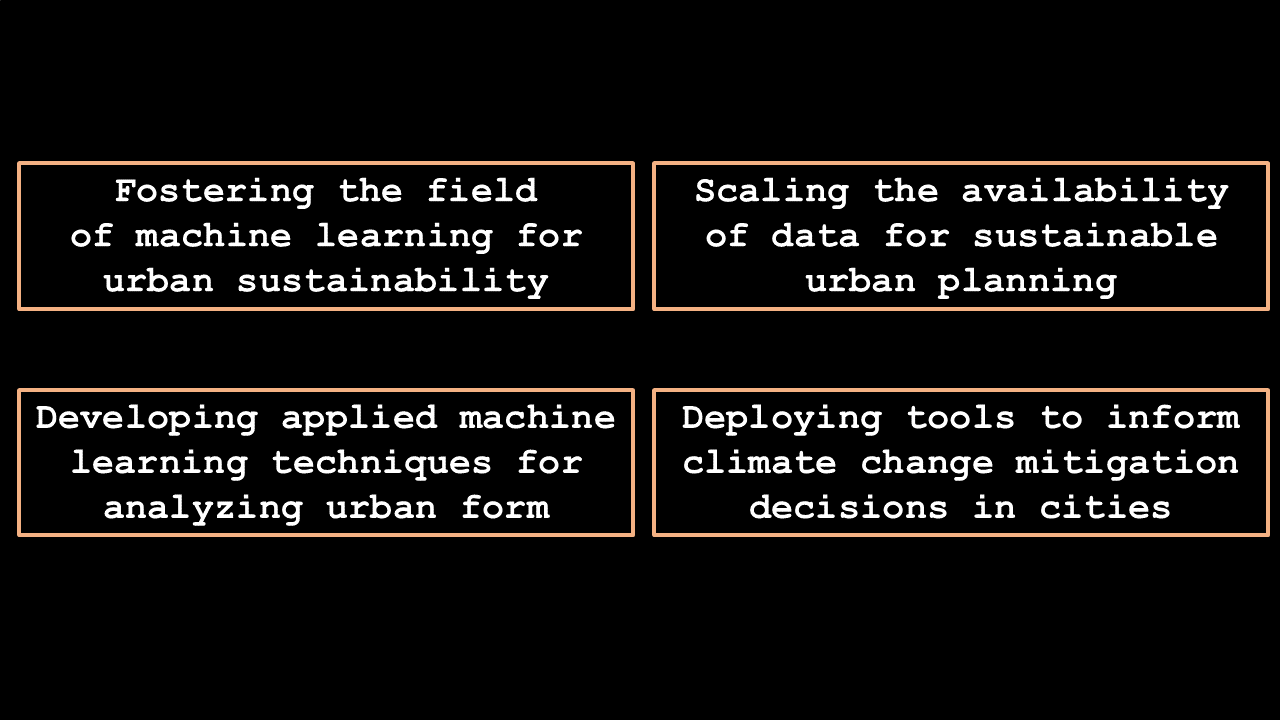
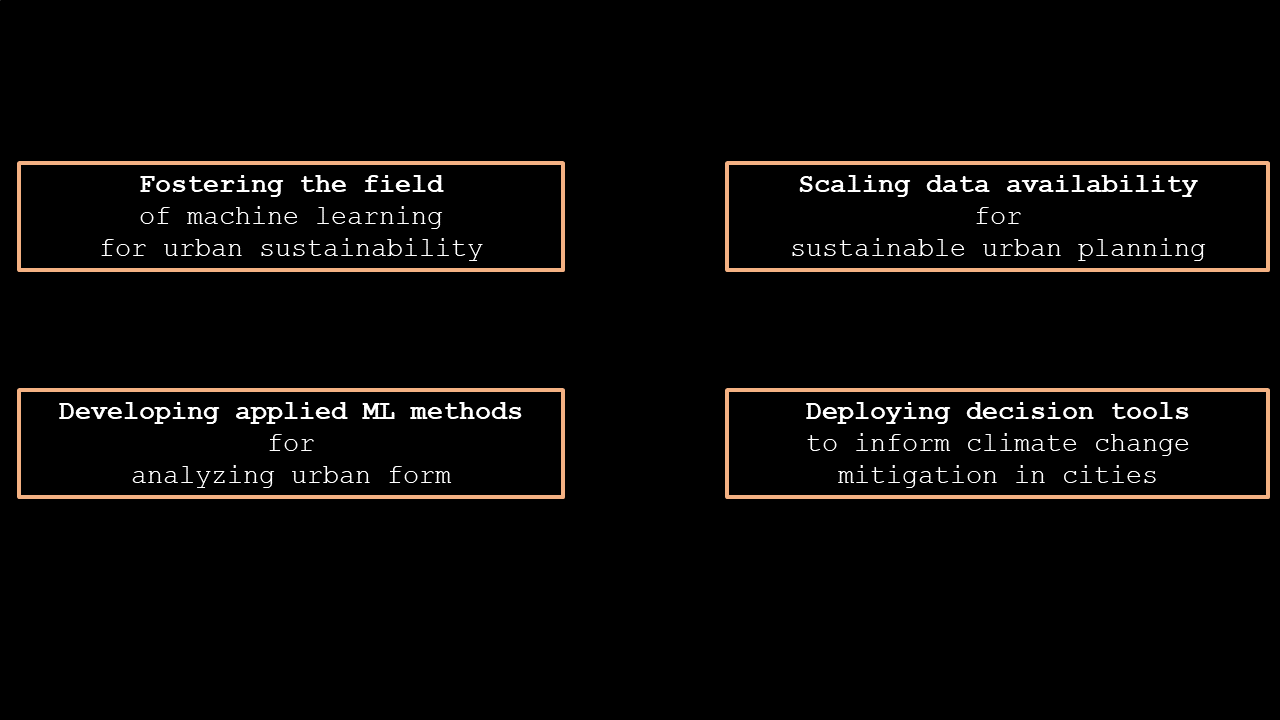
updated boxes

Changed region(s): [[0.0, 0.5194, 1.0, 0.7639], [0.4375, 0.2139, 1.0, 0.4583], [0.0, 0.2444, 0.5312, 0.4583]]

diff --git a/research.md b/research.md
@@ -15,17 +15,17 @@ My research is mainly structured along 4 axes, detailed below.
 There are high expectactions about the potential role of machine learning for sustainable cities, but the field is still nascent. With colleagues, I have written several reviews on the state of the research on machine learning applications relevant to mitigating climate change in cities. A couple of others are in the making. I am also involved in education content creation at as Content Committee Chair at Climate Change AI, which includes for example a wiki, a course and tutorials. 
 
 
-## Scaling the availability of data for sustainable urban planning 
+## Scaling data availability for sustainable urban planning 
 
 Even though more and more data on cities become available, there are still large data gaps that prevent potentially impactful research applications, for example comparative analyses of cities' infrastructure. We have an ungoing project that aims to yield an inventory of existing open government data on buildings globally. I have developped a method to predict building heights from urban form, which we are currently extending to other building attributes including building ages and types, and other metrics relevant to urban studies. We are currently working on a project aiming to create EU-level database that gathers existing open data on buildings and fills the data gaps with machine learning.
 
 
-## Developing applied machine learning techniques for analyzing urban form
+## Developing applied ML methods for analyzing urban form
 
 Increasingly rich data on urban morphology, land use, built infrastructure, offer opportunities of new quantitative analysis of cities, as well as predictive tools. With colleagues, we are developping approaches using machine learning to find energy-relevant features of urban form that can inform sustainable urban planning. We started with the simplest ML methods and are progressively aiming to develop tailored spatial machine learning approaches. We are working in three direction: the links between buildings characteristics & urban form, urban mobility & urban form, and urban temperature & urban form.   
 
 
-## Deploying tools to inform climate change mitigation decisions in cities
+## Deploying decision tools to inform climate change mitigation in cities
 
 The ultimate goal of this research is to deploy tools that can inform decisions towards more sustainable cities. I am currently focusing on tools for the buildings sector, which is a large contributor to global energy use and CO2 emissions. The lack of relevant granular data has constrained modelling efforts to either small-scale analysis, or coarse approaches. With colleagues, I am working on upscaling current city-scale models to the European leavel.  
 
